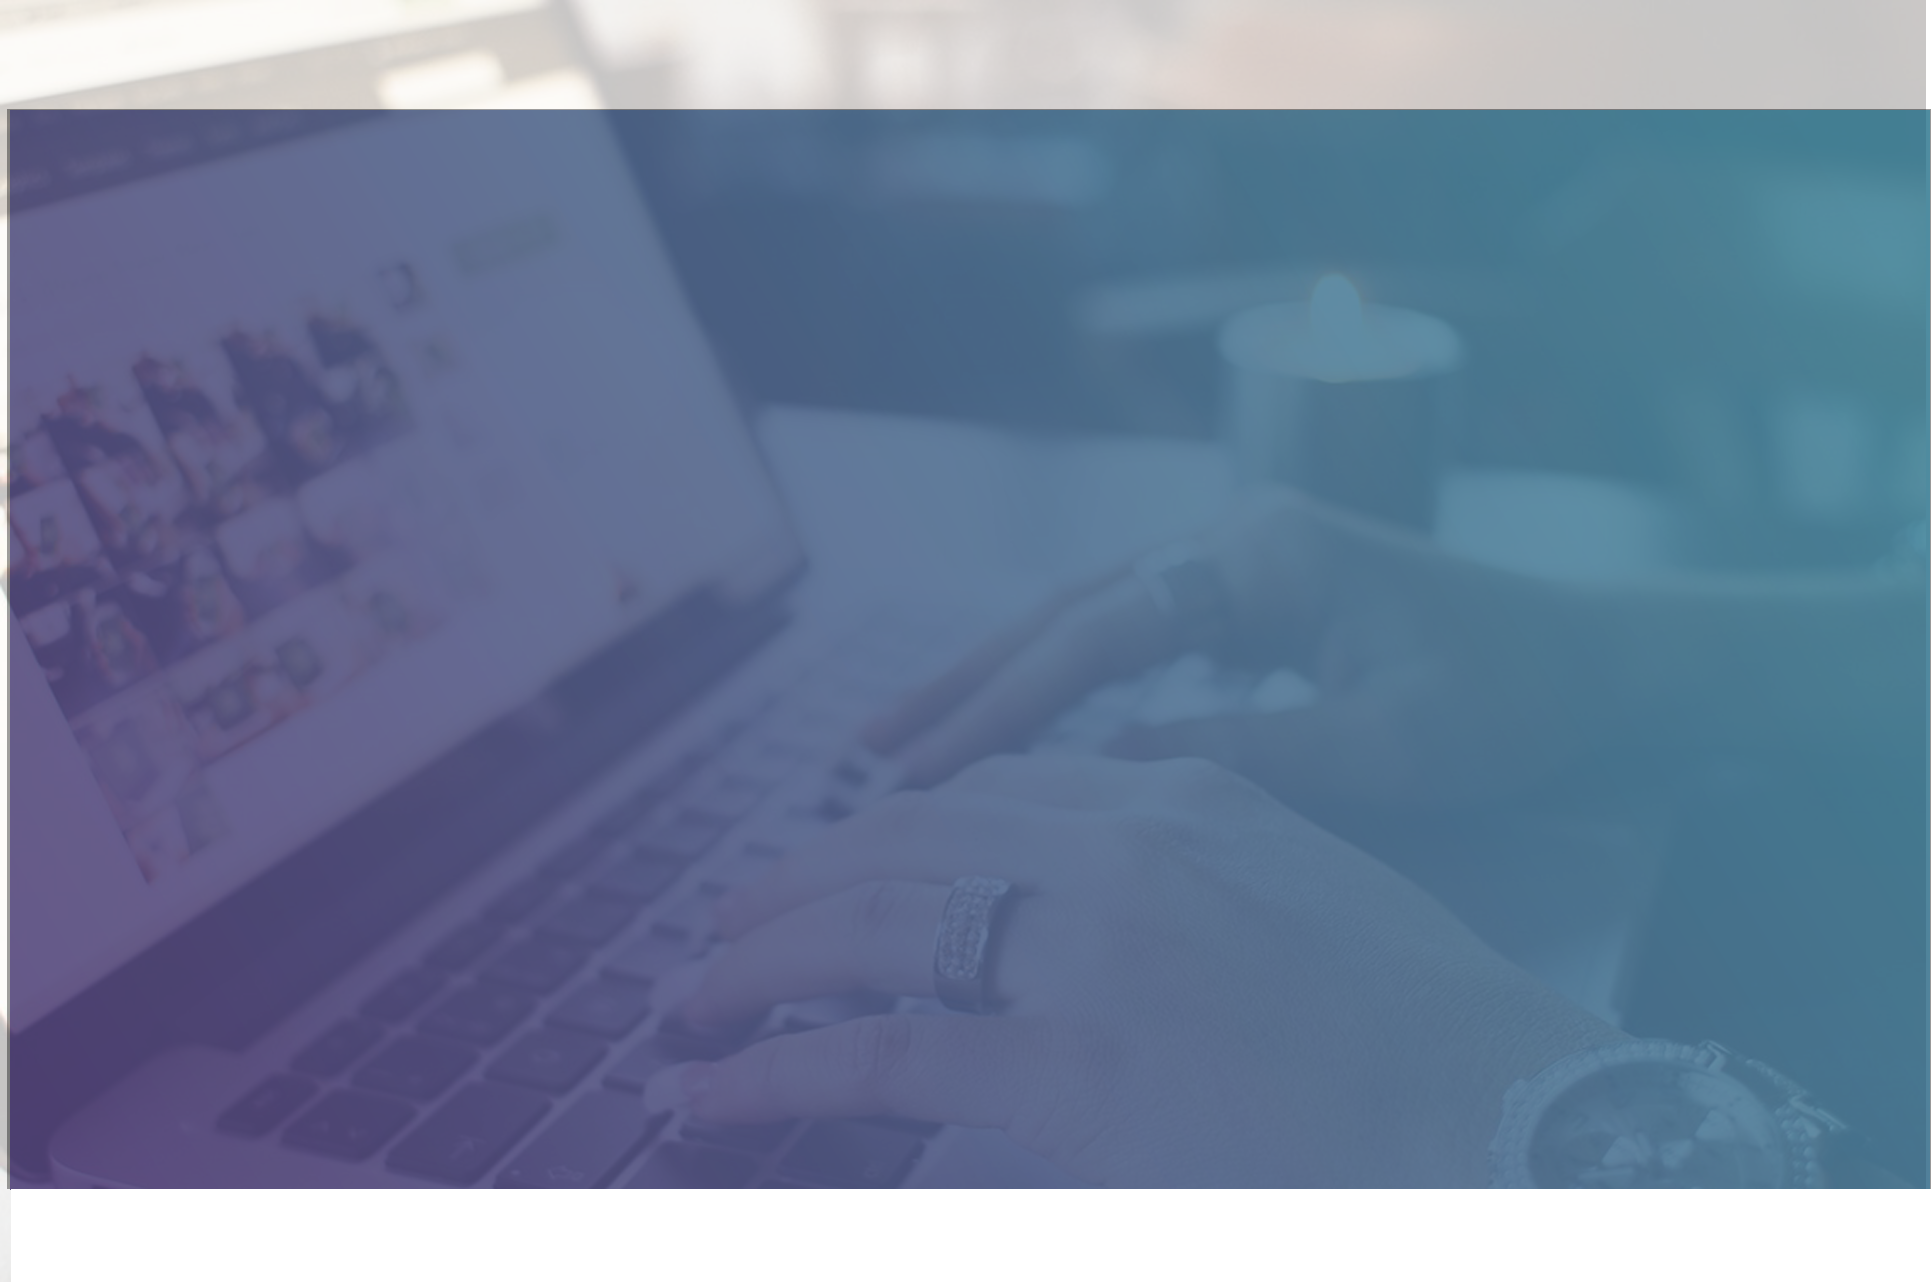
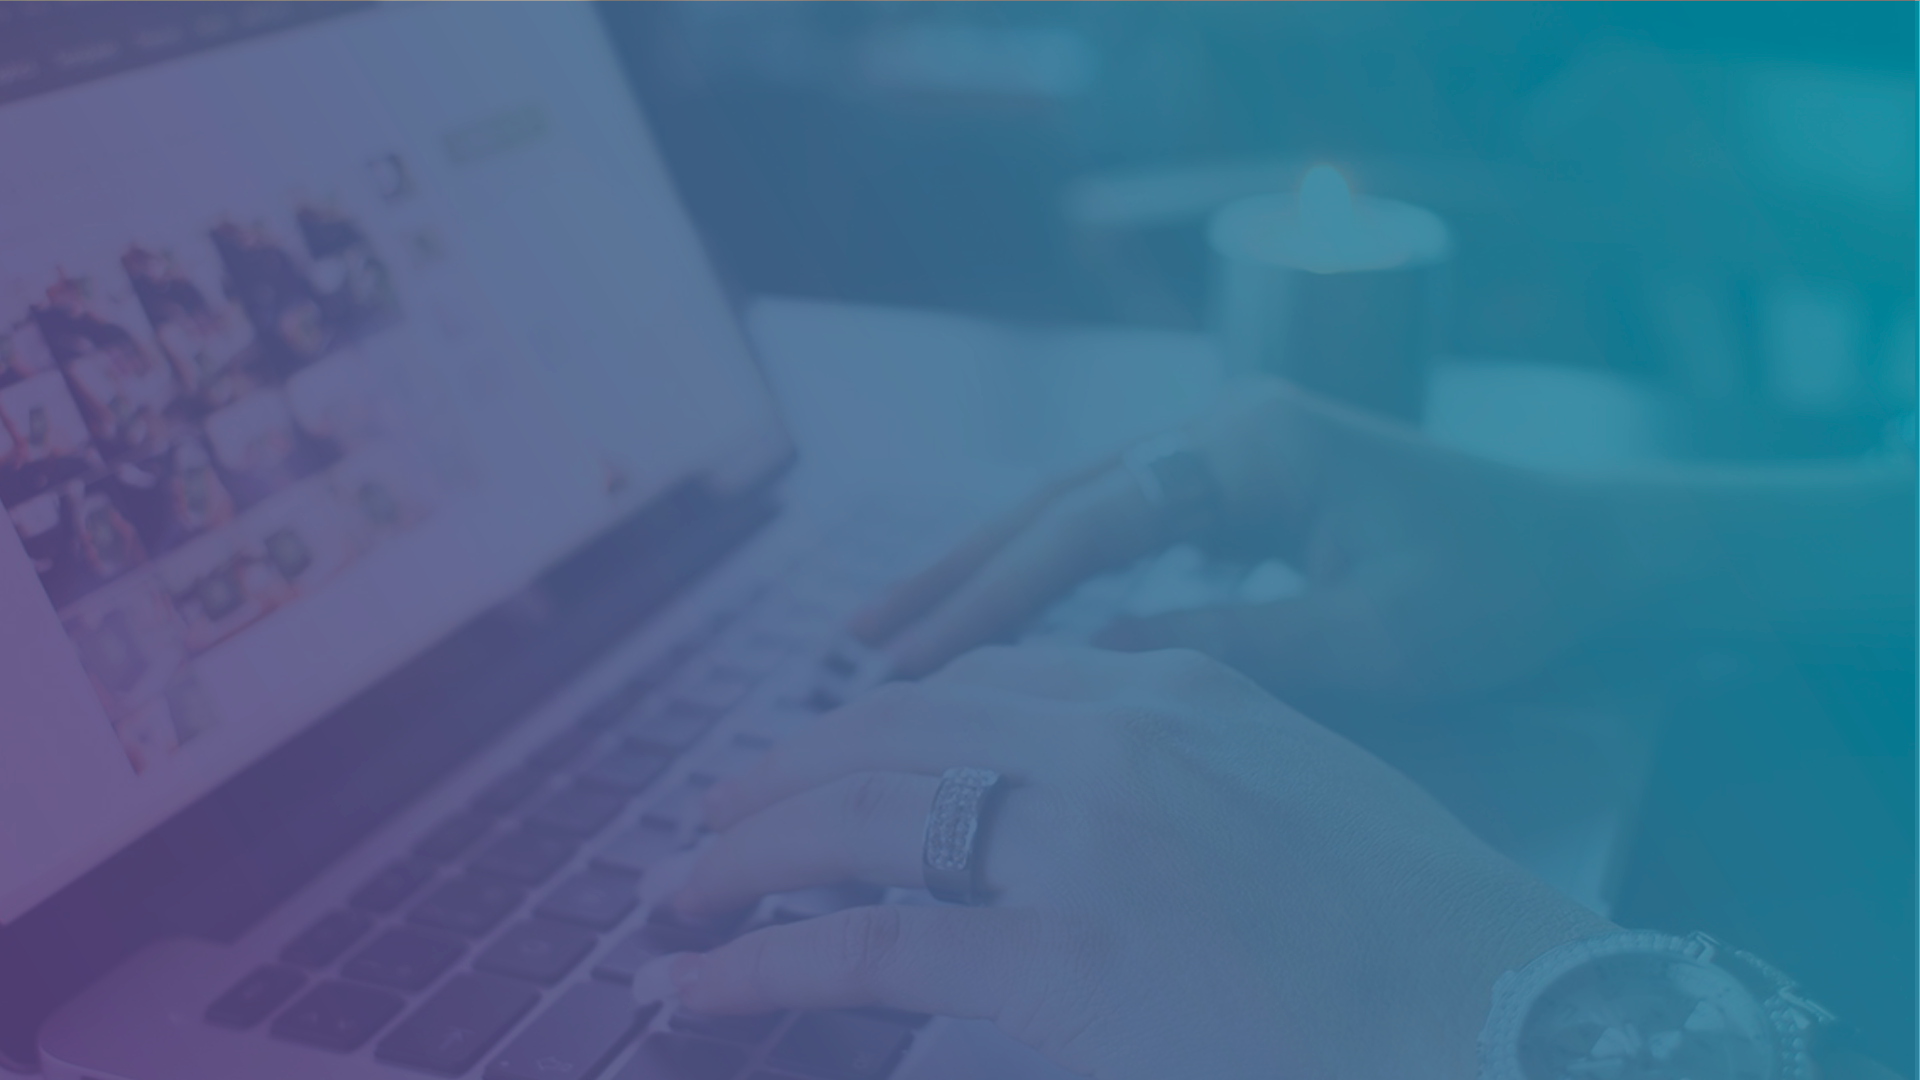
header stylized

diff --git a/css/style.css b/css/style.css
@@ -6,3 +6,100 @@
     font-style: normal;
 }
 
+body {
+    font-family: 'Lato', sans-serif;
+    font-size: 16px;
+}
+
+.container {
+    max-width: 972px;
+    margin: 0 auto;
+}
+
+.header {
+    padding-right: 15px;
+    padding-left: 15px;
+    background-image: url(../img/header-bg.png);
+    background-repeat: no-repeat;
+    background-position: center;
+    background-size: cover;
+}
+
+.header__container {
+    padding-top: 12.5%;
+    padding-bottom: 11.8%;
+}
+
+.header__logo {
+    display: block;
+    margin: 0 auto;
+}
+
+.header__img {
+    display: block;
+    max-width: 100%;
+    margin: 0 auto;
+}
+
+.header__title {
+    color: #ffffff;
+    font-size: 2.125em;
+    line-height: 40px;
+    text-transform: uppercase;
+    font-weight: 900;
+    letter-spacing: 5.43px;
+    margin: 0 auto;
+    text-align: center;
+    margin-top: 15.5%;
+    margin-bottom: 28.1%;
+    position: relative;
+}
+
+.header__title::after {
+    content: '';
+    display: block;
+    width: 105px;
+    height: 2px;
+    background-color: #fff;
+    position: absolute;
+    bottom: -46px;
+    /* left: 435px; */
+    left: 44.8%;
+}
+
+.header__subtitle {
+    display: block;
+    font-size: 0.765em;
+    font-weight: 400;
+    letter-spacing: 4.15px;
+    text-transform: lowercase;
+    text-align: center;
+    margin-top: 3px;
+}
+
+.btn-read-more {
+    display: block; 
+    width: 182px;
+    height: 47px;
+    margin: 0 auto;
+    background: none;
+    border: 1px solid #fff;
+    color: #ffffff;
+    font-size: 1em;
+    font-weight: 400;
+    text-transform: uppercase;
+    letter-spacing: 0.67px;
+    cursor: pointer;
+    margin-bottom: 7.8%;
+}
+
+.header__link {
+    display: block;
+}
+
+.header__arrow {
+    display: block;
+    max-width: 100%;
+    margin: 0 auto;
+}
+

diff --git a/index.html b/index.html
@@ -11,7 +11,7 @@
 </head>
 <body>
     <header class="header">
-        <div class="header-container container">
+        <div class="header__container container">
             <a href="" class="header__logo">
                 <img src="img/header-logo.png" alt="" class="header__img">
             </a>
